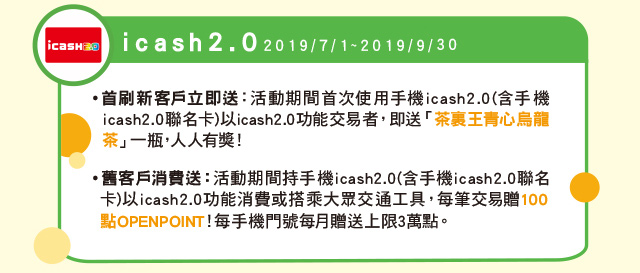
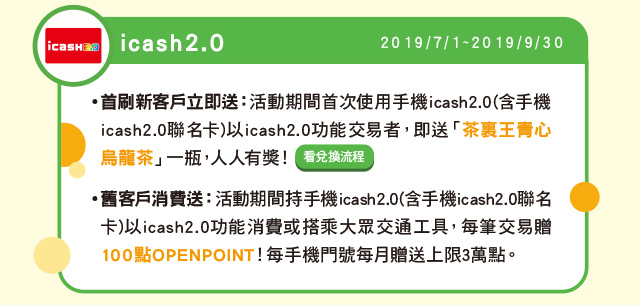
Hamipay
更新按鈕
使用彈跳視窗

diff --git a/demo/HamiPay/index_m.html b/demo/HamiPay/index_m.html
@@ -96,7 +96,10 @@
         -->
 		<img  src="images/section_01-title-m.jpg">
 		<img id="card" src="images/section_01-01-m.jpg" >
-		<img id="icash" src="images/section_01-02-m.jpg" >
+		<img id="icash" src="images/section_01-02-m.jpg"  usemap="#image-a">
+			<map name="image-a">
+			    <area target="_blank" href="/" data-featherlight="#fl3" coords="294,144,376,169" shape="rect">
+			</map>
 		<img id="smart" src="images/section_01-03-m.jpg" >
 		<img id="hamipay" src="images/section_01-04-m.jpg" >
 		<img id="Menu-intro" src="images/section_02-m.jpg" usemap="#image-map002">
@@ -140,7 +143,7 @@
 <li>Hami Pay 悠遊卡活動中獎之用戶，於領取獲贈之贈品或Hami Point點數時，所持之悠遊卡須為有效卡，且悠遊卡功能需為正常，若已遭停用、凍結、延遲繳款或違反銀行信用卡會員約定條款、悠遊卡定型化契約等情事，將喪失中獎資格。</li>
 <li>Hami Pay icash2.0活動期間首刷禮每個手機門號限兌換一次，且該手機門號於2019/7/1前未有消費紀錄過。</li>
 <li>Hami Pay icash2.0活動2019年7月完成首刷之新客戶，可於2019/8/14起至全台7-ELEVEN門市兌領「茶裏王青心烏龍茶」一瓶；2019年8月完成首刷之新客戶，可於2019/9/11起至全台7-ELEVEN門市兌領「茶裏王青心烏龍茶」一瓶；2019年9月完成首刷之新客戶，可於2019/10/9起至全台7-ELEVEN門市兌領「茶裏王青心烏龍茶」一瓶；活動之首刷禮最後提領時間為2019/11/15止。</li>
-<li>Hami Pay icash2.0活動7-ELEVEN兌領首刷禮流程：<ol>
+<li id="flow">Hami Pay icash2.0活動7-ELEVEN兌領首刷禮流程：<ol>
 <li>攜帶手機icash2.0至7-ELEVEN門市。</li>
 <li>拿取「茶裏王青心烏龍茶」至櫃檯。</li>
 <li>將手機NFC感應位置靠近icash卡機上。</li>
@@ -169,7 +172,18 @@
 	</div>
 	<div class="lightbox" id="fl2">
 		<img src="images/pop-m-ios.jpg" />
-	</div><!-- reminder end -->
+	</div>
+	<div class="lightbox" id="fl3">
+		<h2>Hami Pay icash2.0活動7-ELEVEN兌領首刷禮流程：</h2>
+		<ol>
+			<li>攜帶手機icash2.0至7-ELEVEN門市。</li>
+			<li>拿取「茶裏王青心烏龍茶」至櫃檯。</li>
+			<li>將手機NFC感應位置靠近icash卡機上。</li>
+			<li>告知店員該商品為「中華電信Hami Pay手機icash免費兌領茶裏王青心烏龍茶」專案。</li>
+			<li>完成商品兌領。 </li>
+			</ol>
+	</div>
+	<!-- reminder end -->
 </div><!-- wrapper end -->
 <script type="text/javascript" src="js/youtube.js"></script>
 <script type="text/javascript">

diff --git a/demo/HamiPay/index.html b/demo/HamiPay/index.html
@@ -133,7 +133,10 @@ gtag('config', 'UA-112390676-5');
             -->
 			<img src="images/title_02.jpg" />
 			<img id="card" src="images/section_01-1.jpg" >
-			<img id="icash" src="images/section_01-2.jpg" >
+			<img id="icash" src="images/section_01-2.jpg" usemap="#image-a">
+			<map name="image-a">
+			        <area target="_blank" href="/" data-featherlight="#fl3" coords="910,317,1088,377" shape="rect">
+			</map>
 			<img id="smart" src="images/section_01-3.jpg" >
 			<img id="hamipay" src="images/section_01-4.jpg" >
 		</div>
@@ -203,7 +206,7 @@ gtag('config', 'UA-112390676-5');
 <li>Hami Pay 悠遊卡活動中獎之用戶，於領取獲贈之贈品或Hami Point點數時，所持之悠遊卡須為有效卡，且悠遊卡功能需為正常，若已遭停用、凍結、延遲繳款或違反銀行信用卡會員約定條款、悠遊卡定型化契約等情事，將喪失中獎資格。</li>
 <li>Hami Pay icash2.0活動期間首刷禮每個手機門號限兌換一次，且該手機門號於2019/7/1前未有消費紀錄過。</li>
 <li>Hami Pay icash2.0活動2019年7月完成首刷之新客戶，可於2019/8/14起至全台7-ELEVEN門市兌領「茶裏王青心烏龍茶」一瓶；2019年8月完成首刷之新客戶，可於2019/9/11起至全台7-ELEVEN門市兌領「茶裏王青心烏龍茶」一瓶；2019年9月完成首刷之新客戶，可於2019/10/9起至全台7-ELEVEN門市兌領「茶裏王青心烏龍茶」一瓶；活動之首刷禮最後提領時間為2019/11/15止。</li>
-<li>Hami Pay icash2.0活動7-ELEVEN兌領首刷禮流程：<ol>
+<li id="flow">Hami Pay icash2.0活動7-ELEVEN兌領首刷禮流程：<ol>
 <li>攜帶手機icash2.0至7-ELEVEN門市。</li>
 <li>拿取「茶裏王青心烏龍茶」至櫃檯。</li>
 <li>將手機NFC感應位置靠近icash卡機上。</li>
@@ -236,7 +239,18 @@ gtag('config', 'UA-112390676-5');
 	</div>
 	<div class="lightbox" id="fl2">
 		<img src="images/pop-ios.jpg" />
-	</div><!-- reminder end -->
+	</div>
+	<div class="lightbox" id="fl3">
+		<h2>Hami Pay icash2.0活動7-ELEVEN兌領首刷禮流程：</h2>
+		<ol>
+			<li>攜帶手機icash2.0至7-ELEVEN門市。</li>
+			<li>拿取「茶裏王青心烏龍茶」至櫃檯。</li>
+			<li>將手機NFC感應位置靠近icash卡機上。</li>
+			<li>告知店員該商品為「中華電信Hami Pay手機icash免費兌領茶裏王青心烏龍茶」專案。</li>
+			<li>完成商品兌領。 </li>
+			</ol>
+	</div>
+	<!-- reminder end -->
 </div><!-- wrapper end -->
 <div id="footer">
 	
